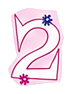
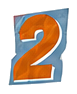
unlok ttitle

diff --git a/css/style.css b/css/style.css
@@ -415,10 +415,19 @@ body.dev-mode .progress-dots { display: flex; }
   text-align: center;
 }
 .step2-unlock-img {
-  display: inline-block;
-  width: 420px;
+  /* 2026-07-22: centered on top edge of the pin-slot graphic, not overlapping
+     the paper pieces ("ตรงกลางด้านบน" — top-center, not dead-center).
+     Width now scales like .pin-inputs (% of card, capped) instead of a fixed
+     px so it shrinks on narrow screens instead of overflowing ("behavior
+     แบบ pin slot ตอนย่อ"). Nudged slightly left of true-center per request. */
+  position: absolute;
+  top: 0;
+  left: calc(50% - 14px);
+  transform: translate(-50%, -100%);
+  width: 78%;
+  max-width: 420px;
   height: auto;
-  margin-bottom: 44px;
+  pointer-events: none;
 }
 .step2-subtext {
   position: absolute;
@@ -603,12 +612,14 @@ body:has(.step[data-step="2"].active) {
 /* Each slot's left/top/height/width/tilt is measured off its own piece in
    pin-slot.png (center x, writable-paper y-range) — not one uniform row,
    since the 6 pieces sit at different heights/sizes in the photo itself. */
-.pin-slot:nth-child(1) { left: 10.3%; top: 33%; height: 45%; width: 13%; transform: translateX(-50%) rotate(-3deg); }  /* kraft square — short piece */
-.pin-slot:nth-child(2) { left: 27.6%; top: 26%; height: 58%; width: 14%; transform: translateX(-50%) rotate(2deg); }  /* gray, tall below the ribbon */
-.pin-slot:nth-child(3) { left: 40.8%; top: 29%; height: 49%; width: 13%; transform: translateX(-50%) rotate(-1deg); } /* grid, below the tape */
-.pin-slot:nth-child(4) { left: 54.5%; top: 33%; height: 48%; width: 14%; transform: translateX(-50%) rotate(1deg); }  /* lined, below the tape */
-.pin-slot:nth-child(5) { left: 73.1%; top: 28%; height: 48%; width: 16%; transform: translateX(-50%) rotate(2deg); }  /* newsprint, above the button */
-.pin-slot:nth-child(6) { left: 89.2%; top: 41%; height: 42%; width: 14%; transform: translateX(-50%) rotate(-4deg); } /* tag, below the hole */
+/* nth-of-type (not nth-child): counts only sibling <span>s, so the
+   .step2-unlock-img <img> now living inside #mission-pin doesn't shift the index */
+.pin-slot:nth-of-type(1) { left: 10.3%; top: 33%; height: 45%; width: 13%; transform: translateX(-50%) rotate(-3deg); }  /* kraft square — short piece */
+.pin-slot:nth-of-type(2) { left: 27.6%; top: 26%; height: 58%; width: 14%; transform: translateX(-50%) rotate(2deg); }  /* gray, tall below the ribbon */
+.pin-slot:nth-of-type(3) { left: 40.8%; top: 29%; height: 49%; width: 13%; transform: translateX(-50%) rotate(-1deg); } /* grid, below the tape */
+.pin-slot:nth-of-type(4) { left: 54.5%; top: 33%; height: 48%; width: 14%; transform: translateX(-50%) rotate(1deg); }  /* lined, below the tape */
+.pin-slot:nth-of-type(5) { left: 73.1%; top: 28%; height: 48%; width: 16%; transform: translateX(-50%) rotate(2deg); }  /* newsprint, above the button */
+.pin-slot:nth-of-type(6) { left: 89.2%; top: 41%; height: 42%; width: 14%; transform: translateX(-50%) rotate(-4deg); } /* tag, below the hole */
 
 .pin-digit {
   width: 100%;

diff --git a/js/app.js b/js/app.js
@@ -208,9 +208,10 @@ async function shareSite() {
 // stickers in assets/stickers/effect-background/. Weighted so the pink ones
 // (1, 2, 5) show up less — clashes with the kraft-paper background otherwise.
 const BG_STICKERS = [
-  { file: 'sticker-5.png', weight: 1 }, // pink heart
-  { file: 'sticker-6.png', weight: 3 }, // red heart
-  { file: 'sticker-3.png', weight: 3 }, // red heart
+  { file: 'sticker-5.png', weight: 1 }, 
+  { file: 'sticker-6.png', weight: 3 }, 
+  { file: 'sticker-3.png', weight: 3 }, 
+  { file: 'sticker-7.png', weight: 2 }, 
   // ponytail: star/sparkle stickers (1-4) removed per request, kept in
   // assets/ unused — re-add to this array if the floating stars come back
 ];

diff --git a/index.html b/index.html
@@ -34,8 +34,8 @@
   <!-- Step 2: Unlock Mission -->
   <section class="step" data-step="2">
     <div class="card">
-      <img class="step2-unlock-img" src="assets/alphabet/unlock.png" alt="unlock" />
       <div class="pin-inputs" id="mission-pin">
+        <img class="step2-unlock-img" src="assets/alphabet/unlock.png" alt="unlock" />
         <span class="pin-slot"><input class="pin-digit" type="text" inputmode="numeric" pattern="[0-9]*" maxlength="1" /><img class="pin-digit-img" alt="" /></span>
         <span class="pin-slot"><input class="pin-digit" type="text" inputmode="numeric" pattern="[0-9]*" maxlength="1" /><img class="pin-digit-img" alt="" /></span>
         <span class="pin-slot"><input class="pin-digit" type="text" inputmode="numeric" pattern="[0-9]*" maxlength="1" /><img class="pin-digit-img" alt="" /></span>